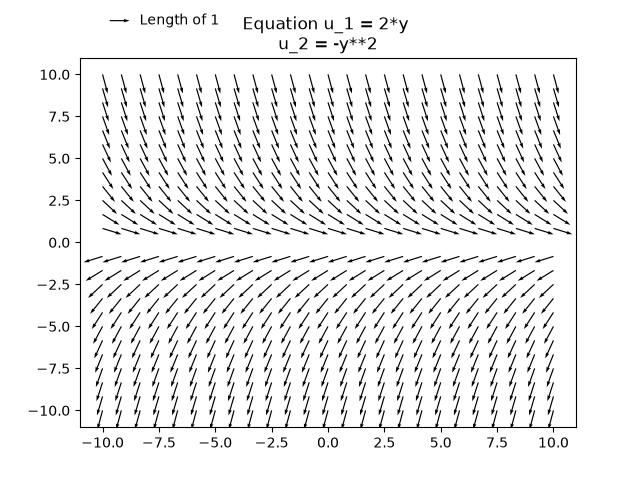
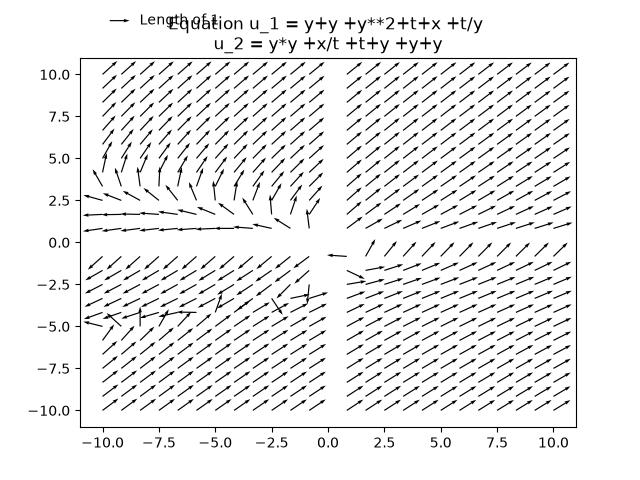
vector field with random expression

Changed region(s): [[0.125, 0.0312, 0.9062, 0.875]]

diff --git a/expression_generator.py b/expression_generator.py
@@ -1,0 +1,46 @@
+import numpy as np
+variables = np.array(['x', 'y', 't'])
+operations = ['+','-','*','/','**']
+def expression_generator(n):
+    """Generate an expression with n+1 operations"""
+    k = 0
+    v = np.size(variables)
+    o = np.size(operations)
+    expr = ''
+    while k <= n:
+        draw = np.random.randint(0,v,size=2)
+        var_1,var_2= variables[draw]
+        o_draw = np.random.randint(0,o)
+        operation = operations[o_draw]
+        if k == n:
+            expr += var_1 + operation + var_2 
+            break
+        elif var_1 == var_2:
+            expr += '2*' + var_1
+        elif operation == '**':
+            coin = np.random.randint(0,2)
+            exponent = np.random.randint(0,10)
+            pick = [var_1,var_2][coin]
+            expr += pick + operation + str(exponent) 
+        else:
+            expr += var_1 + operation + var_2 + ' '
+        expr+= '+'
+        k +=1
+    return expr
+
+def make_expression_list(n,m):
+    """Make a list of n expressions with m operations"""
+    expr_list = []
+    for i in range(n):
+        expr_list.append(expression_generator(m))
+    return expr_list
+
+draw = expression_generator(2)
+x = 1 
+y = 1 
+t = 2
+#print(draw)
+#print(eval(draw))
+
+
+

diff --git a/vector_field_3.py b/vector_field_3.py
@@ -1,0 +1,31 @@
+import numpy as np
+import matplotlib.pyplot as plt
+import itertools
+from expression_generator import make_expression_list
+
+
+def evaluator(t,x,y,expr_1,expr_2):
+    return eval(expr_1),eval(expr_2)
+
+n_expr = 7
+n_op = 3
+exprs = make_expression_list(n_expr,n_op)
+exprs_pairs = itertools.combinations(exprs,2)
+
+
+test = np.linspace(-10,10,25)
+I, J = np.meshgrid(test,test)
+
+for index,exprs in enumerate(exprs_pairs):
+    plt.figure()
+    U,V = evaluator(I,I,J,exprs[0],exprs[1])
+    #q = ax[index].quiver(i,j,i+0.5,0.5*func(i,j)+j)
+    length = np.sqrt(U**2 + V**2)
+    q = plt.quiver(I,J,U / length,V / length,scale=25,angles='xy')
+    plt.quiverkey(q, X=0.1,Y=1.1,U=1,label='Length of 1',labelpos='S')
+    #ax[index].quiverkey(q, X=0.3,Y=0.3,U=1,label='Test',labelpos='E')
+    plt.title(f"Equation u_1 = {exprs[0]} \n u_2 = {exprs[1]} ")
+    plt.savefig(f'fields/field_3_{index}.jpg',dpi=200)
+
+    plt.show()
+        
